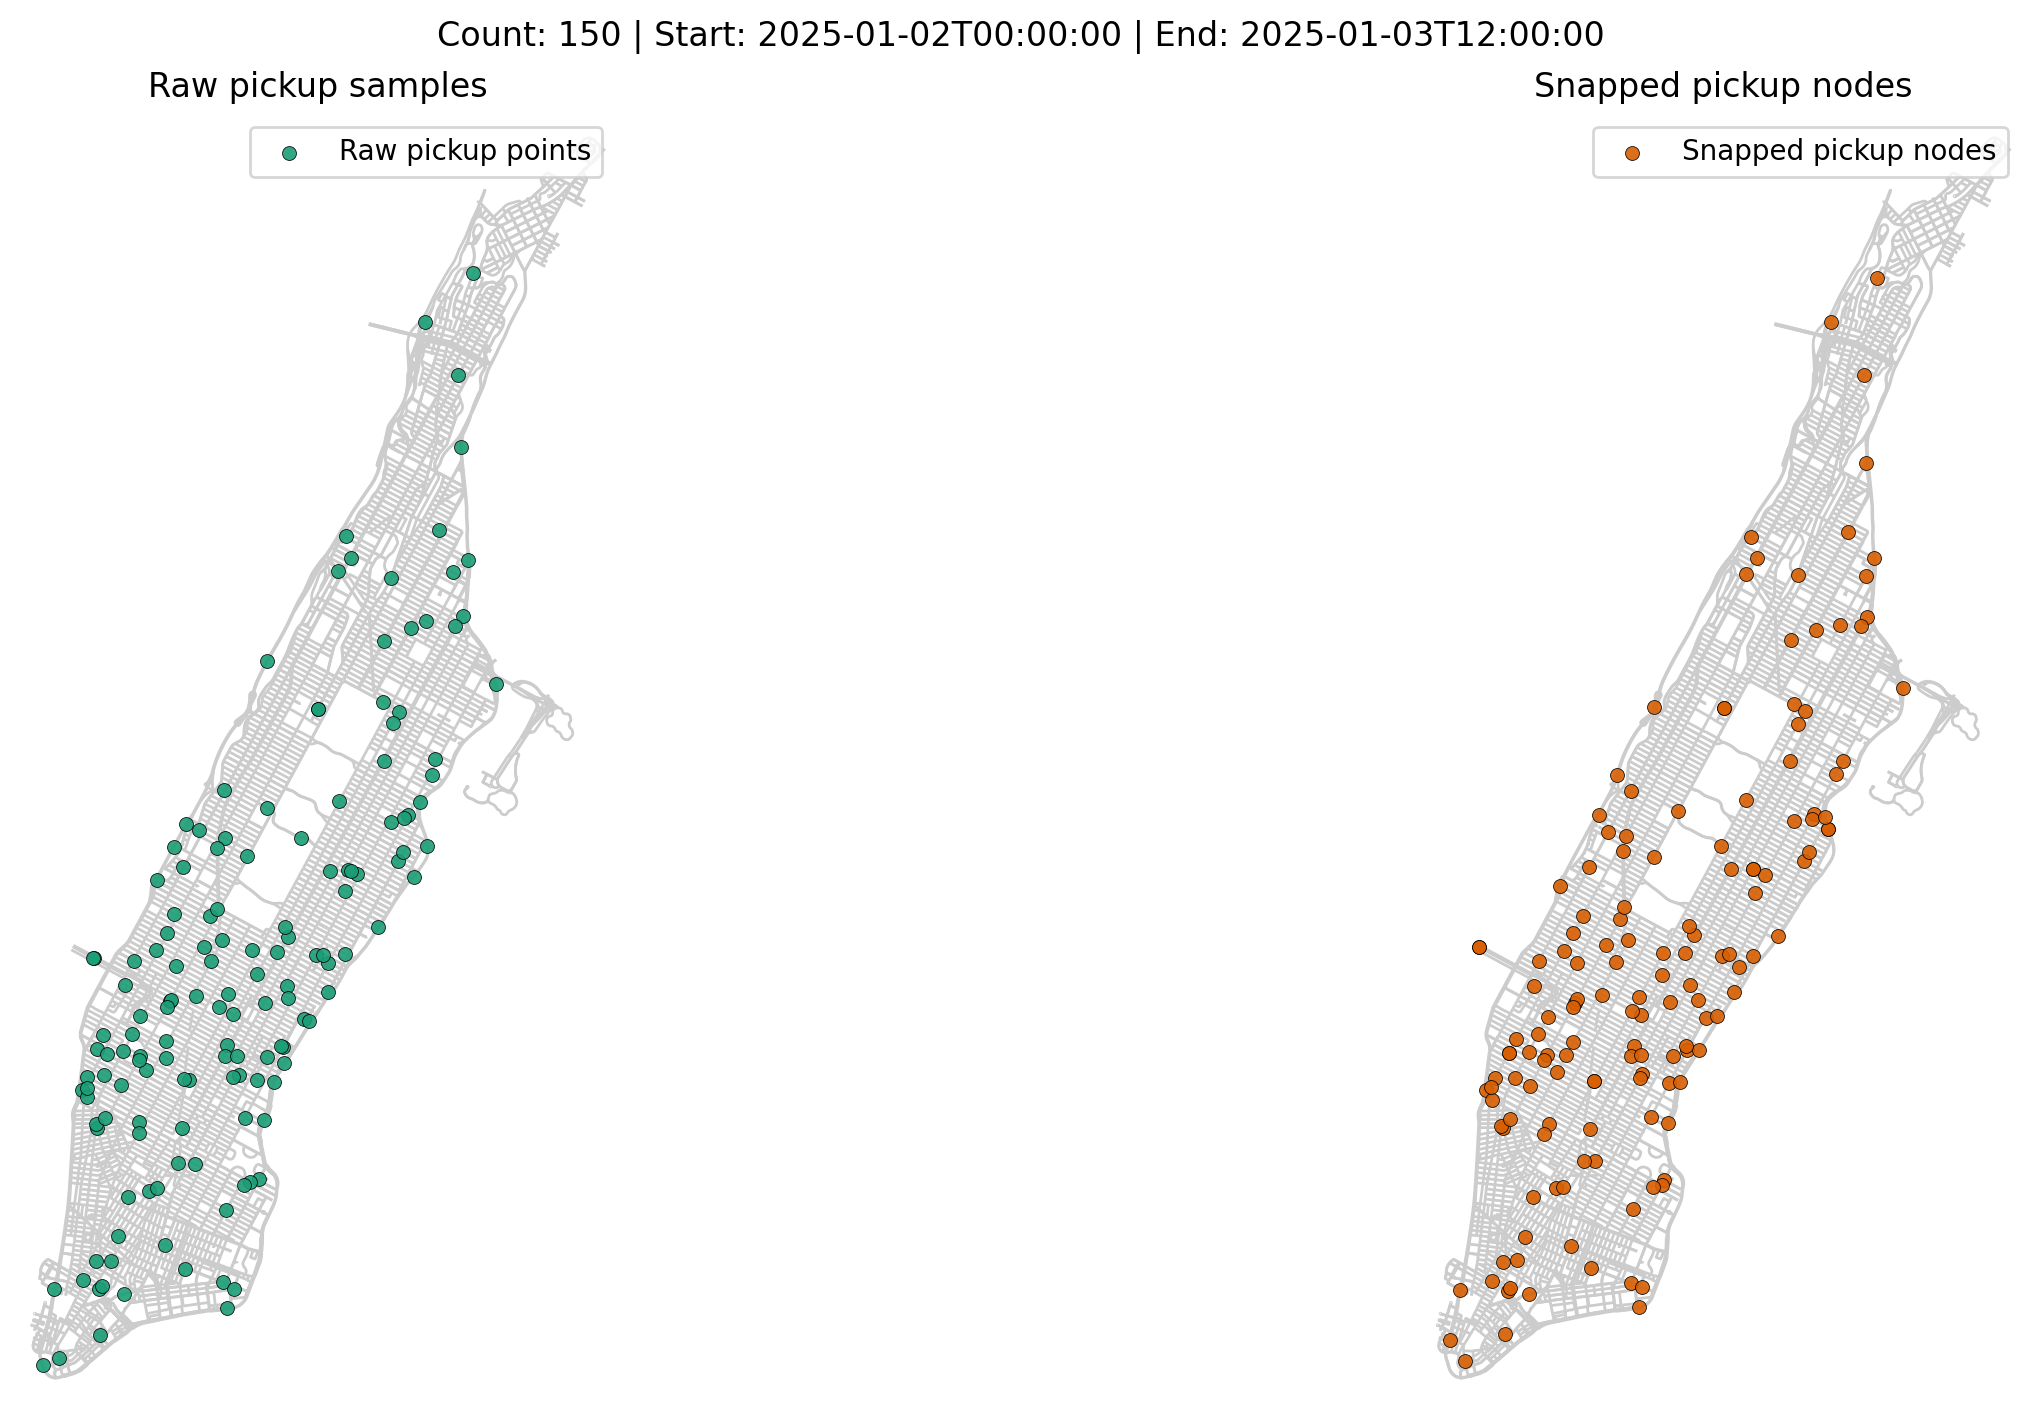
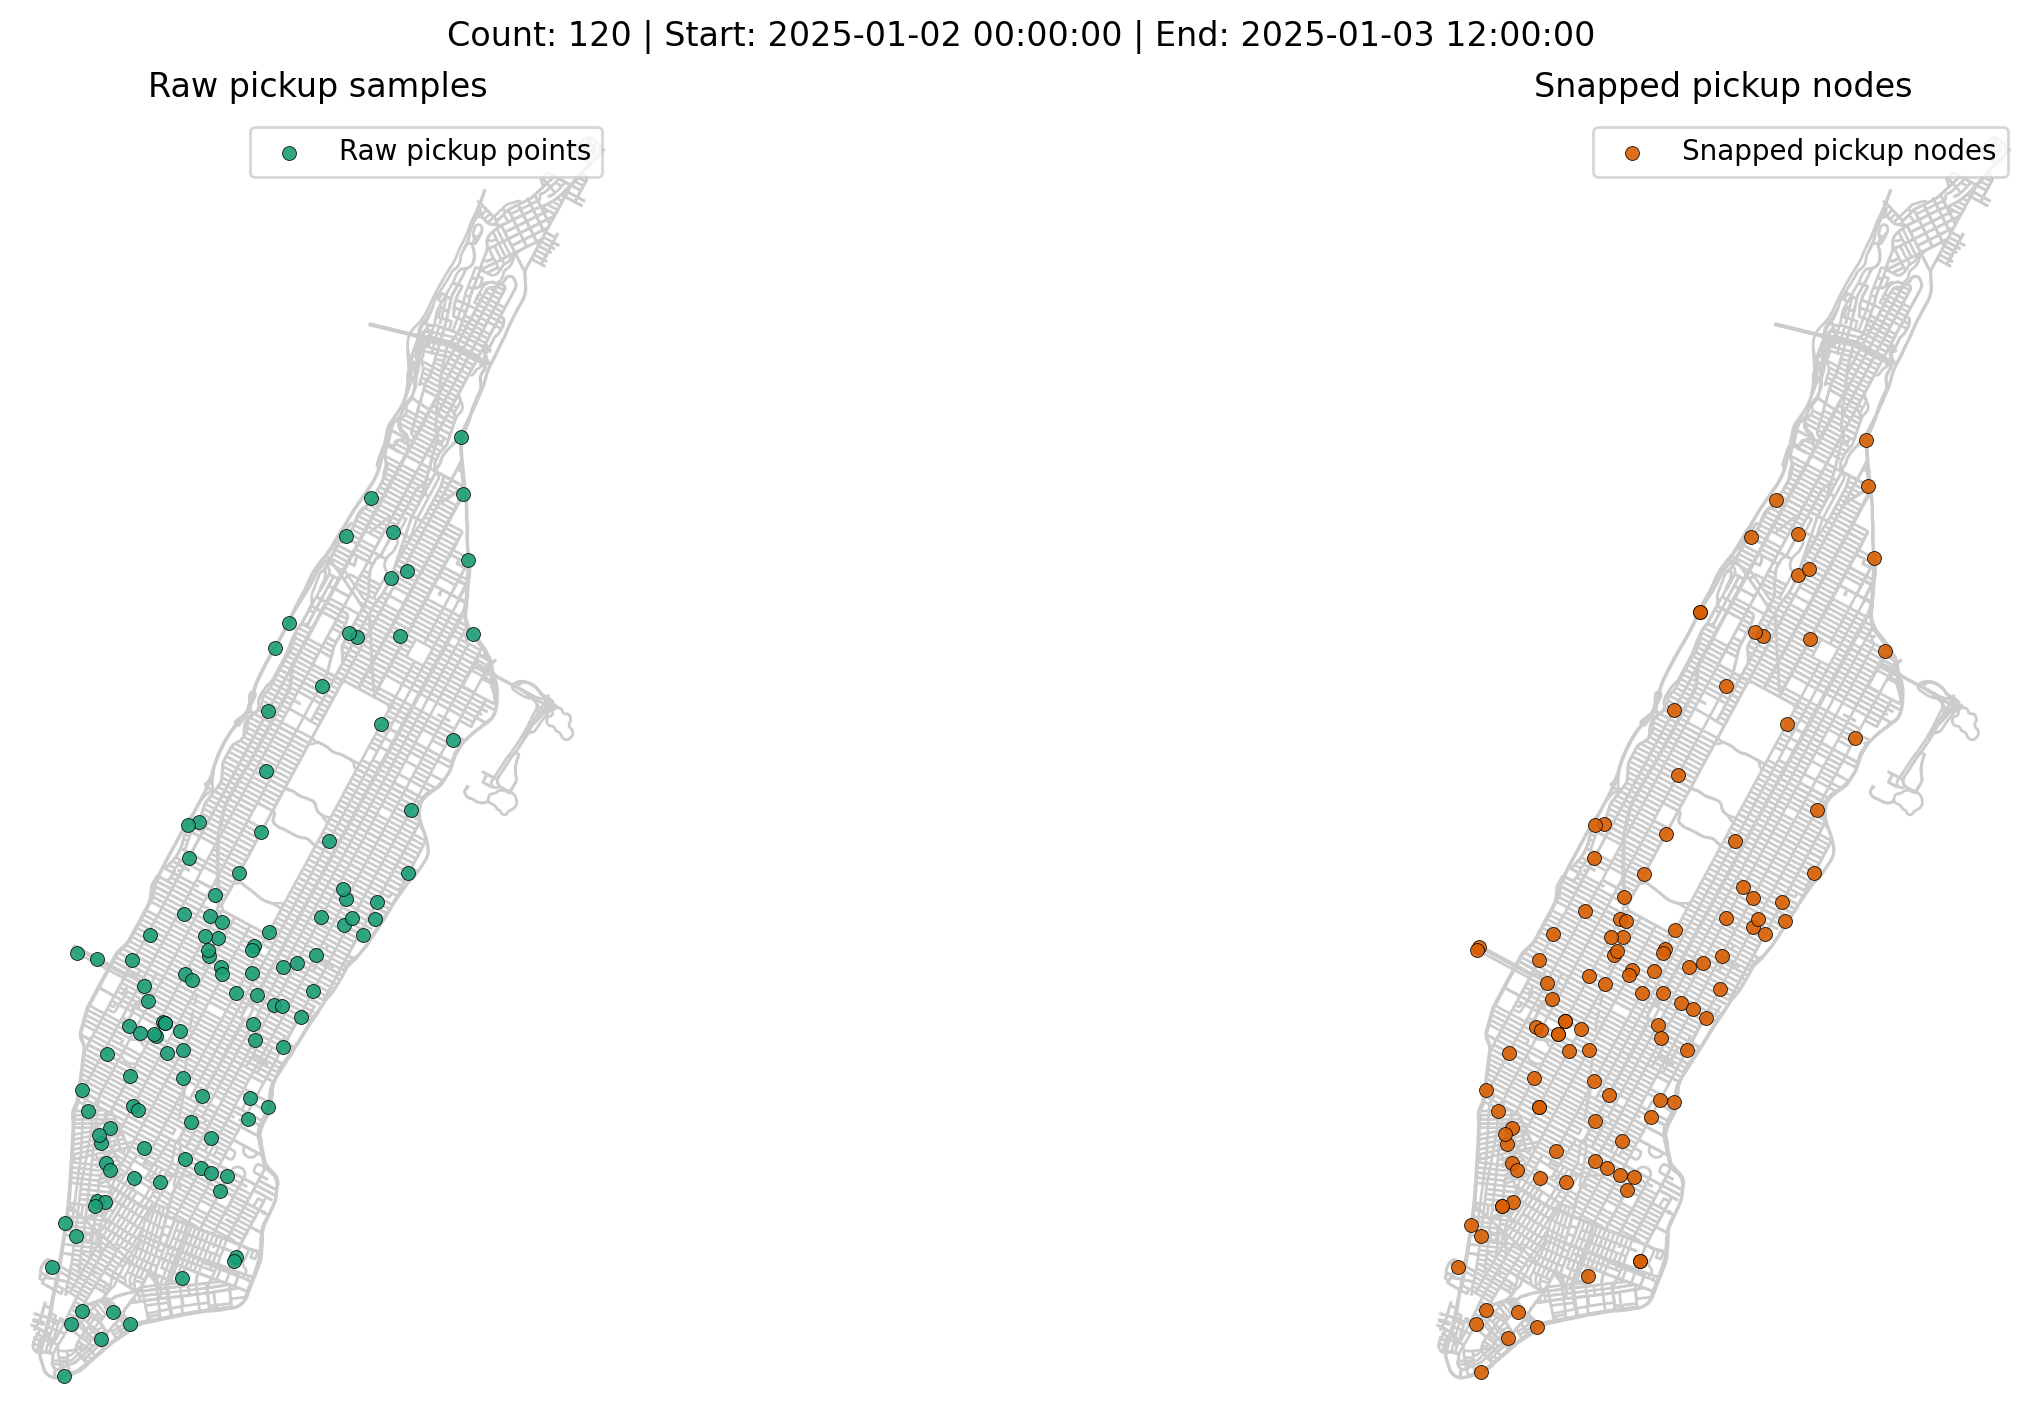
add

diff --git a/src/state_representation/visualize_pickups.py b/src/state_representation/visualize_pickups.py
@@ -66,16 +66,14 @@ def build_parser() -> argparse.ArgumentParser:
     return parser
 
 
-def parse_time(value: Optional[str]) -> Optional[pd.Timestamp]:
+def parse_time(value: Optional[str]) -> Optional[pl.Datetime]:
     if value is None:
         return None
     try:
-        ts = pd.Timestamp(value)
-        if ts is pd.NaT:
-            return None
-        return cast(pd.Timestamp, ts)
-    except ValueError as exc:  # pragma: no cover - handled at runtime
+        ts = pl.Series([value]).str.strptime(pl.Datetime, strict=False).item()
+    except pl.exceptions.ComputeError as exc:  # pragma: no cover - runtime validation
         raise argparse.ArgumentTypeError(str(exc)) from exc
+    return ts
 
 
 def main() -> None:
@@ -85,35 +83,30 @@ def main() -> None:
     start_ts = parse_time(args.start)
     end_ts = parse_time(args.end)
 
-    sample: Optional[DataFrame]
     if args.vehicles:
         sample = None
     else:
         logger.info("Loading enriched rider data from %s", RIDER_DATA_PATH)
-        trips: DataFrame = cast(DataFrame, pd.read_parquet(RIDER_DATA_PATH))
-        if trips.empty:
+        trips = pl.read_parquet(RIDER_DATA_PATH)
+        if trips.is_empty():
             logger.warning("No trips available; nothing to plot")
             return
 
-        trips["pickup_datetime"] = pd.to_datetime(trips["pickup_datetime"], utc=False)
+        trips = trips.with_columns(
+            pl.col("pickup_datetime").cast(pl.Datetime(time_unit="us"))
+        )
 
         if start_ts is not None:
-            trips = cast(
-                DataFrame,
-                trips.loc[trips["pickup_datetime"] >= start_ts].copy(),
-            )
+            trips = trips.filter(pl.col("pickup_datetime") >= pl.lit(start_ts))
         if end_ts is not None:
-            trips = cast(
-                DataFrame,
-                trips.loc[trips["pickup_datetime"] <= end_ts].copy(),
-            )
+            trips = trips.filter(pl.col("pickup_datetime") <= pl.lit(end_ts))
 
-        if trips.empty:
+        if trips.is_empty():
             logger.warning("No trips left after applying the time window")
             return
 
-        sample_size = max(1, min(args.count, len(trips)))
-        sample = trips.sample(n=sample_size, random_state=args.seed)
+        sample_size = max(1, min(args.count, trips.height))
+        sample = trips.sample(n=sample_size, seed=args.seed).to_pandas()
 
     logger.info("Loading Manhattan graph for plotting")
     graph = ensure_travel_times(load_graph())
@@ -167,11 +160,15 @@ def main() -> None:
 
     assert sample is not None
     sample_size_display = sample.shape[0]
-    subtitle = (
-        f"Count: {sample_size_display} | "
-        f"Start: {start_ts.isoformat() if start_ts is not None else '-∞'} | "
-        f"End: {end_ts.isoformat() if end_ts is not None else '∞'}"
-    )
+
+    def fmt_ts(value: Optional[pl.Datetime]) -> str:
+        if value is None:
+            return "-∞"
+        return pl.Series([value]).dt.strftime("%Y-%m-%d %H:%M:%S").item()
+
+    start_repr = fmt_ts(start_ts)
+    end_repr = fmt_ts(end_ts)
+    subtitle = f"Count: {sample_size_display} | Start: {start_repr} | End: {end_repr}"
 
     fig, axes = plt.subplots(1, 2, figsize=(14, 7), constrained_layout=True)
     fig.suptitle(subtitle)
@@ -236,11 +233,7 @@ def main() -> None:
         f"Trips visualised: {sample_size_display}",
     ]
     if start_ts is not None or end_ts is not None:
-        summary.append(
-            "Applied time window: "
-            f"{start_ts.isoformat() if start_ts is not None else '-∞'} → "
-            f"{end_ts.isoformat() if end_ts is not None else '∞'}"
-        )
+        summary.append(f"Applied time window: {start_repr} → {end_repr}")
     summary.append(f"Seed: {args.seed}")
     logger.info(format_log_block("\n".join(summary)))
 

diff --git a/src/state_representation/generate_rider_locations.py b/src/state_representation/generate_rider_locations.py
@@ -1,6 +1,5 @@
 """Generate graph-constrained pickup and dropoff nodes for NYC FHV trips."""
 
-from collections.abc import Iterable
 from pathlib import Path
 from typing import Dict, Mapping, Optional, Tuple, cast
 
@@ -330,12 +329,8 @@ def main() -> pl.DataFrame:
     pickup_zones = trips["pickup_zone"].to_numpy()
     dropoff_zones = trips["dropoff_zone"].to_numpy()
 
-    pu_x, pu_y = gen_coords_for_zones(
-        pickup_zones, sampler, zone_geoms, PICKUP_SEED
-    )
-    do_x, do_y = gen_coords_for_zones(
-        dropoff_zones, sampler, zone_geoms, DROPOFF_SEED
-    )
+    pu_x, pu_y = gen_coords_for_zones(pickup_zones, sampler, zone_geoms, PICKUP_SEED)
+    do_x, do_y = gen_coords_for_zones(dropoff_zones, sampler, zone_geoms, DROPOFF_SEED)
 
     pu_nodes = snap_points_to_nodes(G_proj, pu_x, pu_y)
     do_nodes = snap_points_to_nodes(G_proj, do_x, do_y)
